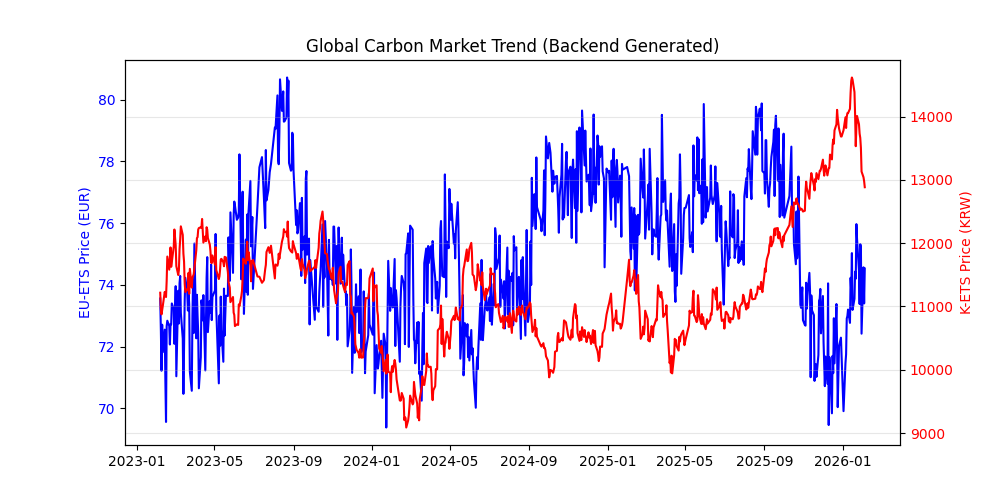
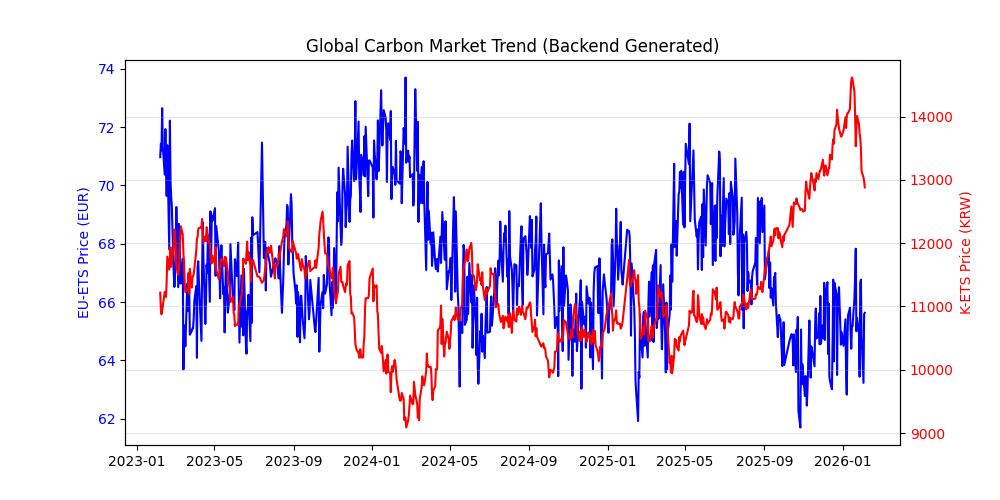
이미지 추가

diff --git a/backend/market_report.md b/backend/market_report.md
@@ -1,30 +1,30 @@
 # 📊 ESG Market Data Report
-**Updated:** 2026-02-04 14:56:42
+**Updated:** 2026-02-04 16:28:52
 
 **Total Rows:** 713
 
 ## Recent 10 Days Data
 | date                |   euPrice |   krPrice |
 |:--------------------|----------:|----------:|
-| 2026-01-22 00:00:00 |     75.97 |     13842 |
-| 2026-01-23 00:00:00 |     75.48 |     14008 |
-| 2026-01-26 00:00:00 |     74.46 |     13878 |
-| 2026-01-27 00:00:00 |     73.38 |     13729 |
-| 2026-01-28 00:00:00 |     75.32 |     13662 |
-| 2026-01-29 00:00:00 |     75.23 |     13504 |
-| 2026-01-30 00:00:00 |     72.42 |     13131 |
-| 2026-02-02 00:00:00 |     74.57 |     13041 |
-| 2026-02-03 00:00:00 |     73.4  |     12978 |
-| 2026-02-04 00:00:00 |     74.53 |     12883 |
+| 2026-01-22 00:00:00 |     65    |     13842 |
+| 2026-01-23 00:00:00 |     65.45 |     14008 |
+| 2026-01-26 00:00:00 |     64.95 |     13878 |
+| 2026-01-27 00:00:00 |     63.44 |     13729 |
+| 2026-01-28 00:00:00 |     66.63 |     13662 |
+| 2026-01-29 00:00:00 |     66.77 |     13504 |
+| 2026-01-30 00:00:00 |     64.84 |     13131 |
+| 2026-02-02 00:00:00 |     63.23 |     13041 |
+| 2026-02-03 00:00:00 |     65.58 |     12978 |
+| 2026-02-04 00:00:00 |     65.63 |     12879 |
 
 ## Data Statistics
 |       |   euPrice |   krPrice |
 |:------|----------:|----------:|
-| count | 713       |    713    |
-| mean  |  75.0238  |  11280.3  |
-| std   |   2.32243 |    977.88 |
-| min   |  69.38    |   9088    |
-| 25%   |  73.29    |  10659    |
-| 50%   |  74.99    |  11136    |
-| 75%   |  76.81    |  11747    |
-| max   |  80.72    |  14616    |
+| count | 713       |   713     |
+| mean  |  67.2259  | 11280.3   |
+| std   |   2.22169 |   977.871 |
+| min   |  61.7     |  9088     |
+| 25%   |  65.59    | 10659     |
+| 50%   |  66.99    | 11136     |
+| 75%   |  68.67    | 11747     |
+| max   |  73.7     | 14616     |
